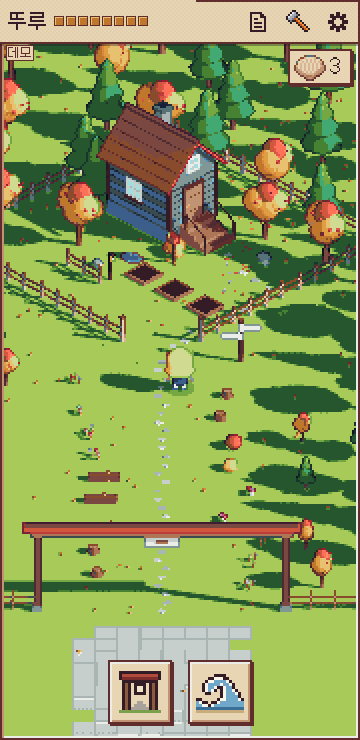
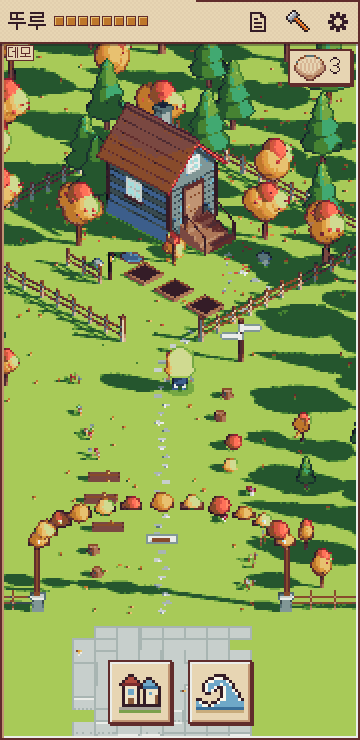
7차 W: 마을 문을 꽃 덩굴 아치로 (주인: 신사 같은 문이 싫다), 빠른 이동 칩의 마을 그림은 집 두 채
Claude-Session: https://claude.ai/code/session_01Tq2y4TM4YC1T1S8gH7WyyS

diff --git a/js/app.js b/js/app.js
@@ -5484,7 +5484,7 @@ var APP = (function () {
   /* 11-21 7차 바깥 한 장 (갈래 W): 표지판 → 빠른 이동 창 (#travel-pick, 그림 칩 — 보이는 글자 0) → APP.goPlace · 해변 조개 단추는 멀면 먼저 걸어간다.
      칩 그림은 16×16 을 여기서 캔버스에 찍는다 (그림 파일 · 목록을 늘리지 않는다): 집 · 마을 문 · 파도 */
   var TRAVEL_PAL = { o: '#341c27', r: '#b04a3c', R: '#7a2c2c', w: '#efe3c8', b: '#6fa8c8', d: '#8a5a3c', g: '#7aa04c', p: '#8a5a3c', t: '#a8a29a', f: '#fbf6ea', B: '#3a6f9a', s: '#c8ac7c' };
-  var TRAVEL_ART = { home: ['................', '.......oo.......', '......orro......', '.....orrrro.....', '....orrrrrro....', '...orrrrrrrro...', '..orrrrrrrrrro..', '.oRRRRRRRRRRRRo.', '..owwwwwwwwwwo..', '..owbbwwwdddwo..', '..owbbwwwdddwo..', '..owwwwwwdddwo..', '..owwwwwwdddwo..', '..oooooooooooo..', '.gggggggggggggg.', '................'], village: ['................', '.oooooooooooooo.', '.orrrrrrrrrrrro.', '.oRRRRRRRRRRRRo.', '..oooooooooooo..', '..opo.oooo.opo..', '..opo.owwo.opo..', '..opo.owwo.opo..', '..opo.oooo.opo..', '..opo......opo..', '..opo......opo..', '..opo..tt..opo..', '..opo.tttt.opo..', '..opottttttopo..', '.gggggggggggggg.', '................'], beach: ['................', '................', '......oooo......', '....oofffoo.....', '...offbbbbfo....', '..ofbbbbfbbfo...', '..ofbbfoofbbo...', '..ofbfo.ofbbfo..', '...oo...ofbbbfo.', '........ofbbbbo.', 'oo.....offbbbbfo', 'bfoo.oofbbbbbbbb', 'bbffofbbbbbbbbbb', 'BBBBBBBBBBBBBBBB', 'ssssssssssssssss', '................'] };
+  var TRAVEL_ART = { home: ['................', '.......oo.......', '......orro......', '.....orrrro.....', '....orrrrrro....', '...orrrrrrrro...', '..orrrrrrrrrro..', '.oRRRRRRRRRRRRo.', '..owwwwwwwwwwo..', '..owbbwwwdddwo..', '..owbbwwwdddwo..', '..owwwwwwdddwo..', '..owwwwwwdddwo..', '..oooooooooooo..', '.gggggggggggggg.', '................'], village: ['................', '................', '....oo..........', '...orro...oo....', '..orrrro.obbo...', '.oRRRRRRobbbbo..', '..owwwwooBBBBBo.', '..owbbwo.owwwwo.', '..owbbwo.owbwwo.', '..owwwwo.owwwdo.', '..owddwo.owwwdo.', '..owddwo.owwwdo.', '..ooooooooooooo.', '.tttttttttttttt.', '.gggggggggggggg.', '................'], beach: ['................', '................', '......oooo......', '....oofffoo.....', '...offbbbbfo....', '..ofbbbbfbbfo...', '..ofbbfoofbbo...', '..ofbfo.ofbbfo..', '...oo...ofbbbfo.', '........ofbbbbo.', 'oo.....offbbbbfo', 'bfoo.oofbbbbbbbb', 'bbffofbbbbbbbbbb', 'BBBBBBBBBBBBBBBB', 'ssssssssssssssss', '................'] };
   var TRAVEL_SIGN = ['home', 'village', 'beach'], travelBound = false, travelOpener = null, travelKbd = false, travelPicked = false, travelJob = null;
   function goPlace(place, kbd) {   /* 'home' | 'village' | 'beach' → Promise<boolean>: 마당 (바깥) 에 있을 때만 · 화면을 잠깐 덮고 그곳의 표지판 곁에 선다 */
     if (!scene || sceneMode !== '3d' || typeof scene.goPlace !== 'function' || TRAVEL_SIGN.indexOf(place) < 0 || roomNow() !== 'yard' || roomJob || travelJob || furnMode) return Promise.resolve(false);

diff --git a/js/scene3d.js b/js/scene3d.js
@@ -5653,9 +5653,17 @@ var SCENE3D = (function () {
     function wideBuild(g) {
       var V = WIDE_PARTS.village, B = WIDE_PARTS.beach, sc = SEASON_C[SEASON.cur], sn = SEASON.cur, GT = WIDE.GT, BY = WIDE.BEACH_Y, i, k, h, q, y;
       /* ── 마을 구간 (s 18 ~ 46): 마을 문 (아치) · 포장한 길 · 광장 · 가게 터 뒤 낮은 담과 덤불 · 표지판 ── */
-      [-3.45, 3.45].forEach(function (t) { V.push(stBox(19, t, 1.25, 0.2, 2.5, 0.2, EXT_C.trunk), stBox(19, t, 0.08, 0.3, 0.16, 0.3, EXT_C.stone[1])); });
-      V.push(stBox(19, 0, 2.5, 0.2, 0.2, 7.3, EXT_C.fence), stBox(19, 0, 2.66, 0.5, 0.07, 7.8, EXT_C.roof), stBox(19, 0, 2.72, 0.26, 0.06, 7.6, EXT_C.roofLine));
-      V.push(stBox(19.02, 0, 2.2, 0.05, 0.34, 1.0, PAL.paper[1]), stBox(19.05, 0, 2.2, 0.03, 0.12, 0.3, PAL.rose[1]));   /* 아치에 걸린 빈 나무패 (글자 없음) */
+      /* 마을 문: 돌 받침 위 나무 기둥 둘 + 덩굴이 감긴 둥근 아치 (11-21 주인: 붉은 가로대에 처마가 나온 문은 신사 같아 싫다 → 붉은 지붕 · 처마 없이, 꽃 덩굴 아치로) */
+      [-3.45, 3.45].forEach(function (t) { V.push(stBox(19, t, 0.2, 0.36, 0.4, 0.36, EXT_C.stone[1]), stBox(19, t, 0.42, 0.42, 0.05, 0.42, EXT_C.stone[0]), stBox(19, t, 1.2, 0.16, 1.6, 0.16, W[3])); });
+      var arcN = 13, arcBl = [PAL.rose[2] || PAL.rose[1], FIXED.white, PAL.amber[4]];
+      for (i = 0; i < arcN; i++) {   /* 반원을 따라 짧은 나무 토막 (계단식) + 잎 뭉치, 사이사이 꽃 */
+        var aa = Math.PI * (i + 0.5) / arcN, at2 = -3.45 * Math.cos(aa), ay = 2.0 + 1.4 * Math.sin(aa), ah = hash('warch' + i);
+        V.push(stBox(19, at2, ay, 0.14, 0.14, 0.62, W[3]));
+        var lq = wideXZ(19 + ((ah % 3) - 1) * 0.03, at2), lr = 0.26 + (ah >>> 3) % 3 * 0.04;
+        V.push({ g: new T.SphereGeometry(lr, 6, 4), m: M(snapPos(lq[0]), ay + 0.1, snapPos(lq[1]), 0, 0, 0, 1, 0.8, 1), c: sc.leaf[i % 3], tag: 13 + i % 3 });
+        if (i % 2 === 0) V.push({ g: box(0.09, 0.09, 0.09), m: M(snapPos(lq[0] + 0.14), ay + 0.16, snapPos(lq[1] + 0.14)), c: arcBl[(ah >>> 6) % 3] });
+      }
+      V.push(stBox(19.02, 0, 2.9, 0.03, 0.9, 0.03, W[2]), stBox(19.02, 0, 2.3, 0.05, 0.3, 0.9, PAL.paper[1]), stBox(19.05, 0, 2.3, 0.03, 0.1, 0.5, W[3]));   /* 아치 가운데에 걸린 빈 나무패 (글자 없음) */
       /* 포장 (리드 11-21): 줄눈은 판석보다 한 톤 어두운 돌 (풀빛 줄 없음) — 줄마다 깔린 바닥 띠 위에 판석. 마을 길은 |t| ≤ 2.5 안팎의 들쭉날쭉한 가장자리 (그 밖은 풀 어깨),
          광장은 가운데 둥근 고리와 십자를 둘째 돌빛으로. 이끼는 몇 포기만 */
       for (i = 0; i < 29; i++) {

diff --git a/wip/round7/reports/W.md b/wip/round7/reports/W.md
@@ -88,6 +88,7 @@
 3. **도착 자리**: 집 = 울타리 문 바로 밖 (집 쪽을 봄) · 마을 = 광장 어귀 · 바닷가 = 계단 아래 표지판 곁.
 4. **빠른 이동 창은 내 캐릭터가 선 곳의 칩을 숨긴다** (마당 · 숲길 = 집, 마을 · 광장 = 마을, 계단 아래 = 바닷가 — 칩 둘만 보인다). 표지판은 화면에 보이면 멀리서도 눌린다 (걸어가지 않는다).
 5. **숲길 가의 꾸밈** (꽃 · 버섯 · 덤불 · 그루터기 · 통나무) 을 걷는 띠 안에 놓았다. 폰 화면 폭 (6.7 m) 이 띠 폭과 거의 같아 숲이 화면 밖이라 "too empty" 였다. 덤불 · 그루터기 · 통나무는 부딪힌다 (가운데 |t| < 1.3 은 비움).
+5-1. **마을 문** (주인 11-21: "신사 같은 디자인이 마음에 안 든다"): 붉은 가로대 · 처마를 없애고 돌 받침 + 나무 기둥 + 꽃 덩굴이 감긴 둥근 아치로. 빠른 이동 칩의 마을 그림도 문 대신 집 두 채로.
 6. **바깥 기본 배율 2/3** (리드의 결정): 바깥에 나가면 방보다 한 칸 멀리서 본다. 두 손가락으로 4/3 배까지 키울 수 있다 (리드는 2 배까지를 말했다 — 멈춤 칸을 늘려야 해서 넣지 않았다).
 6-1. **앞보기** 는 가로 1.2 · 세로 1.5 m. 스틱을 놓으면 화면은 그 자리에 선다 (가운데로 되돌아오지 않는다).
 7. **밤의 모래** 는 어두운 밤색으로 읽힌다 (풀과 구별되게 모래색을 붉은 쪽으로 골랐다). 팔레트 스냅 때문에 낮의 모래는 아주 밝은 크림색이다.
